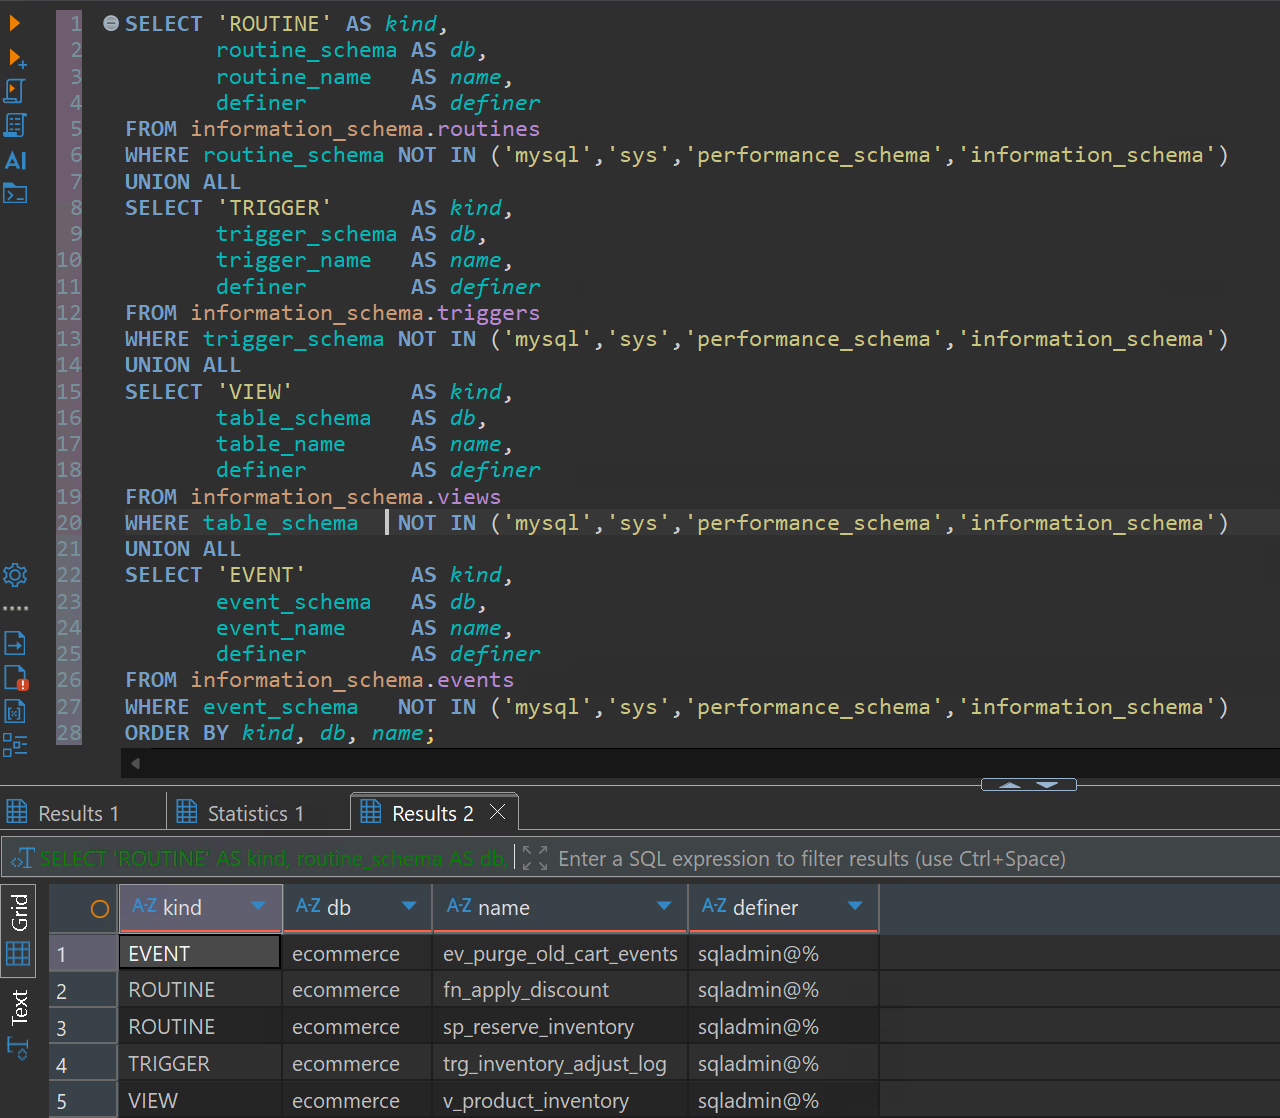
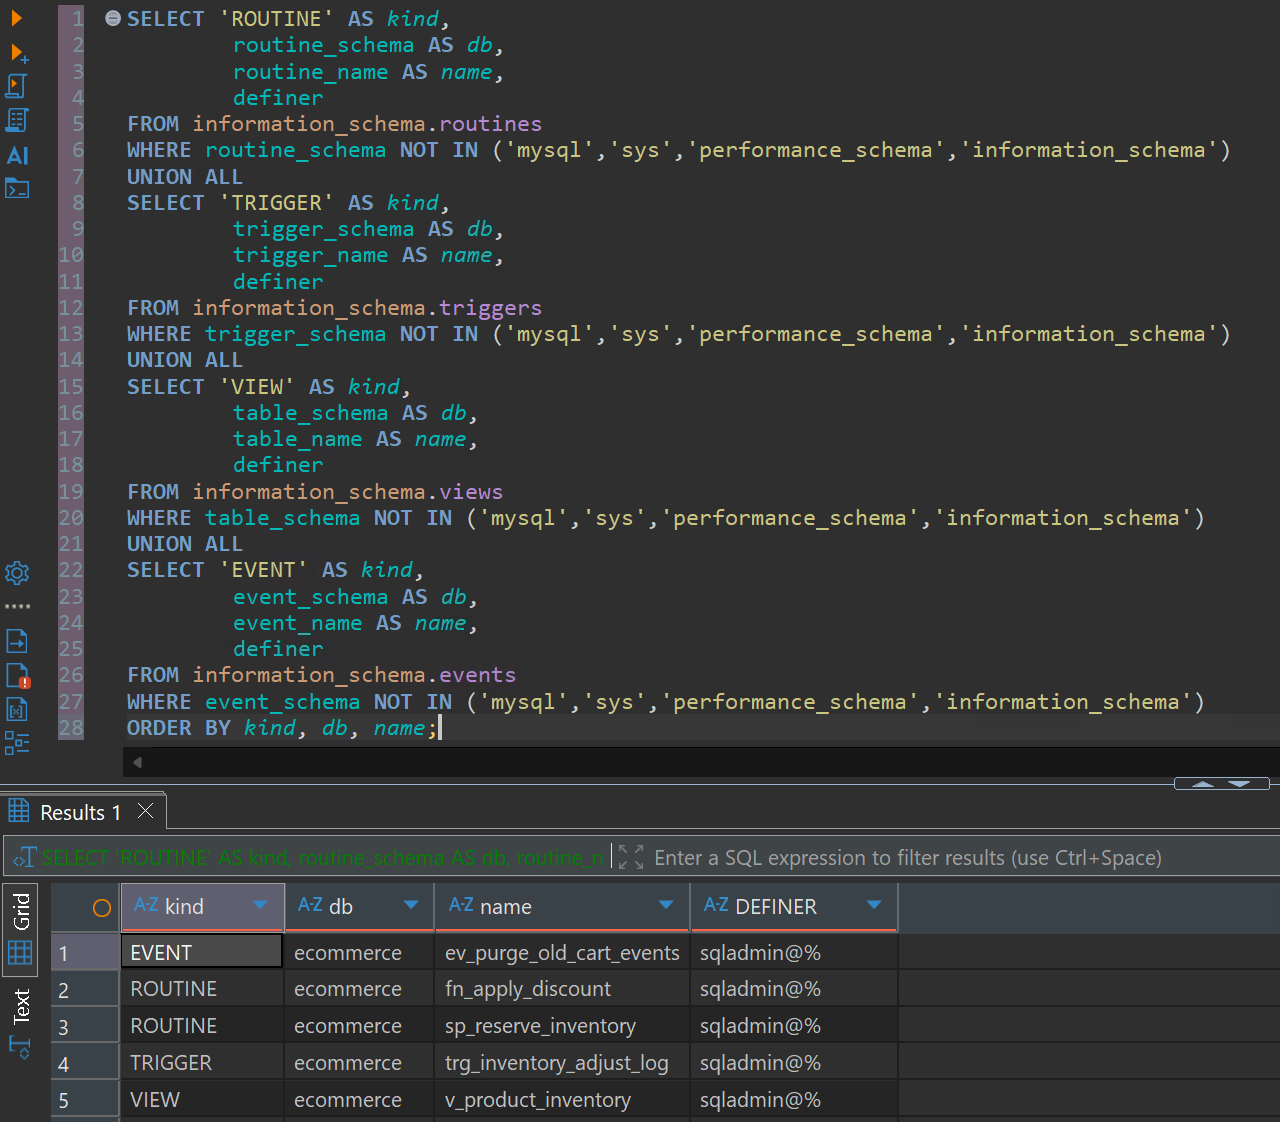
Refine README and parameter docs: clarify lower_case_table_names, DEFINER cases, Error classification

Changed region(s): [[0.0, 0.0, 1.0, 1.0]]

diff --git a/docs/parameter_compatibility.md b/docs/parameter_compatibility.md
@@ -33,7 +33,7 @@
 
 | 변수 | 통과 조건 | 의미 / 다르면 무슨 일이? | 미통과 시 대응 |
 |---|---|---|---|
-| `lower_case_table_names` | BLUE 와 동일 (Linux 기본 = `1`) | 테이블/DB 이름 대소문자 처리. 다르면 같은 테이블을 못 찾음 | **GREEN 생성 시점에 동일 값으로** — 이후 변경 불가 |
+| `lower_case_table_names` | BLUE 와 동일 (Azure Flex 허용값: `1` 또는 `2`, 기본 = `1`) | 테이블/DB 이름 대소문자 처리. 다르면 같은 테이블을 못 찾음 | **GREEN 생성 시점에 동일 값으로 고정** — 생성 후 변경 불가. `az flexible-server create` 에는 지정 인자가 없으므로 BLUE 가 `2` 면 Portal Additional Configuration 또는 IaC 로 생성 시점에 `2` 지정. 상세 → [README §5.1](../README.md) |
 | `character_set_server` | BLUE 와 동일 (`utf8mb4` 권장) | 신규 객체/임시 테이블의 기본 charset. 다르면 한글/이모지 깨짐, JOIN 시 collation mismatch | Azure 파라미터로 변경 |
 | `collation_server` | BLUE 와 동일 (`utf8mb4_0900_ai_ci` 등) | 문자열 비교/정렬. 다르면 동일 문자열 비교 결과 차이, 인덱스 미사용, ORDER BY 결과 변경 | Azure 파라미터로 변경 |
 | `time_zone` | BLUE 와 동일 | `TIMESTAMP` 컴럼 저장값에 영향. 다르면 시간차만큼 어긋남 | Azure Flex 기본 `+00:00`. Azure 파라미터로 변경 |
